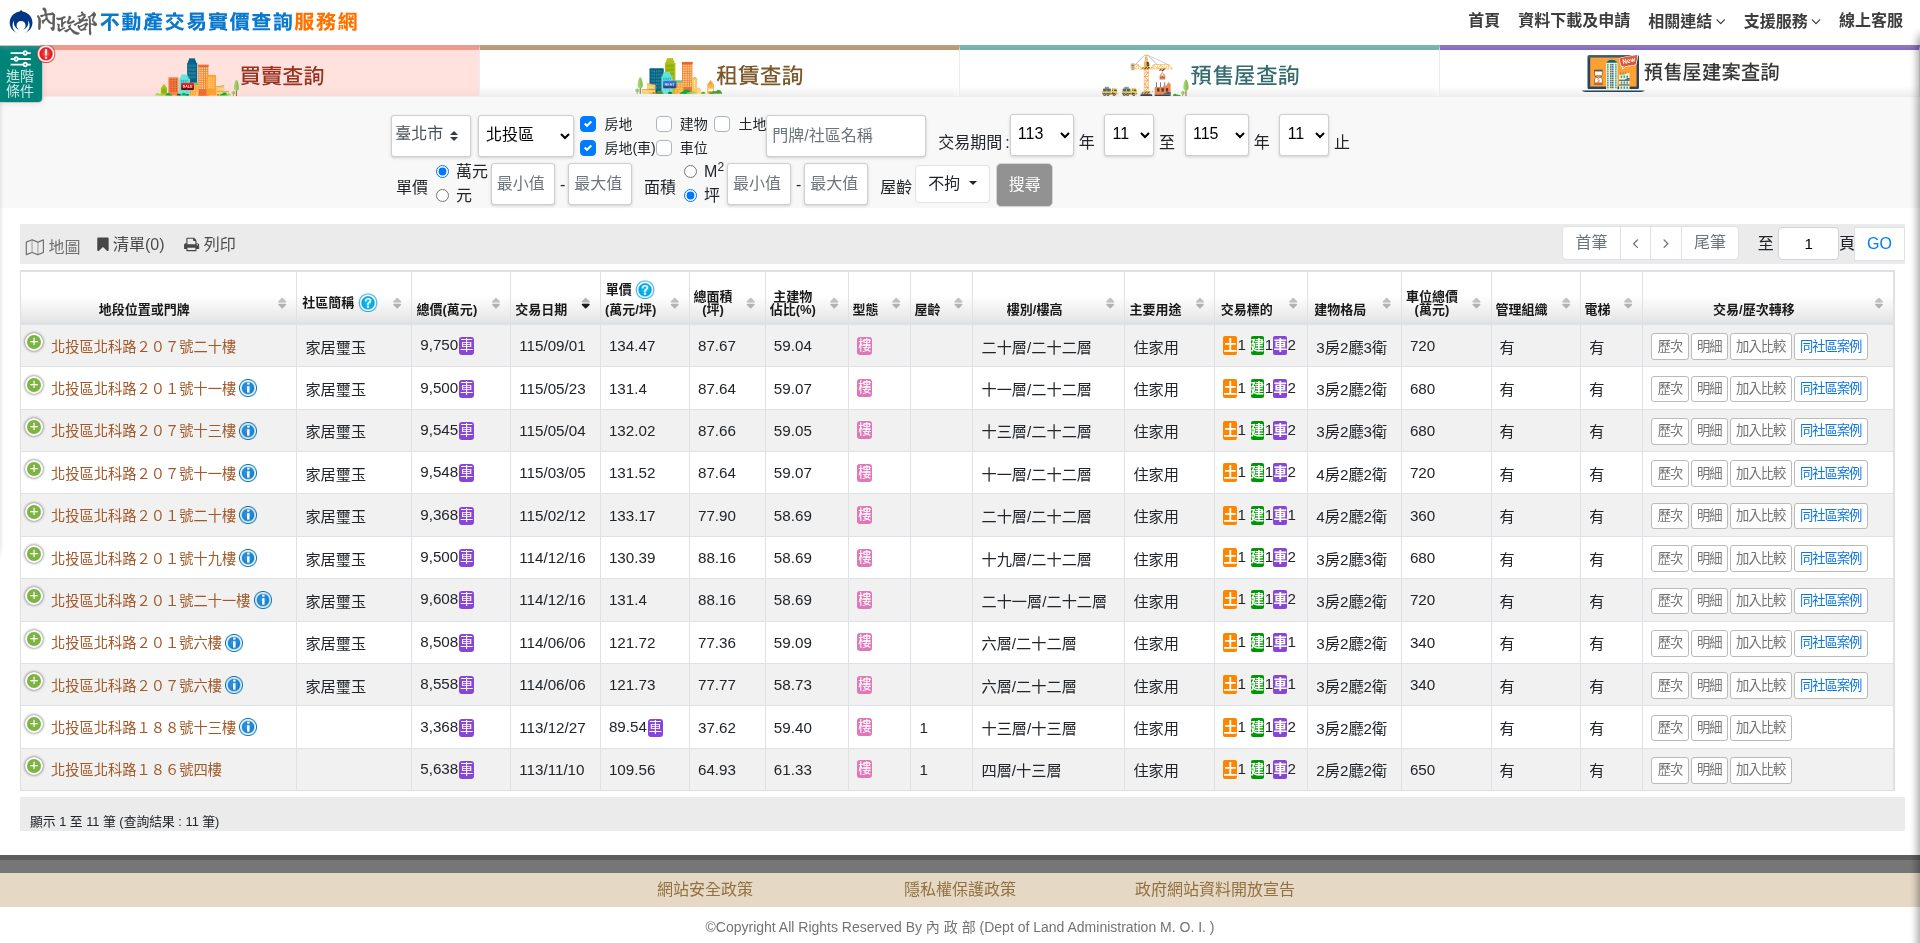
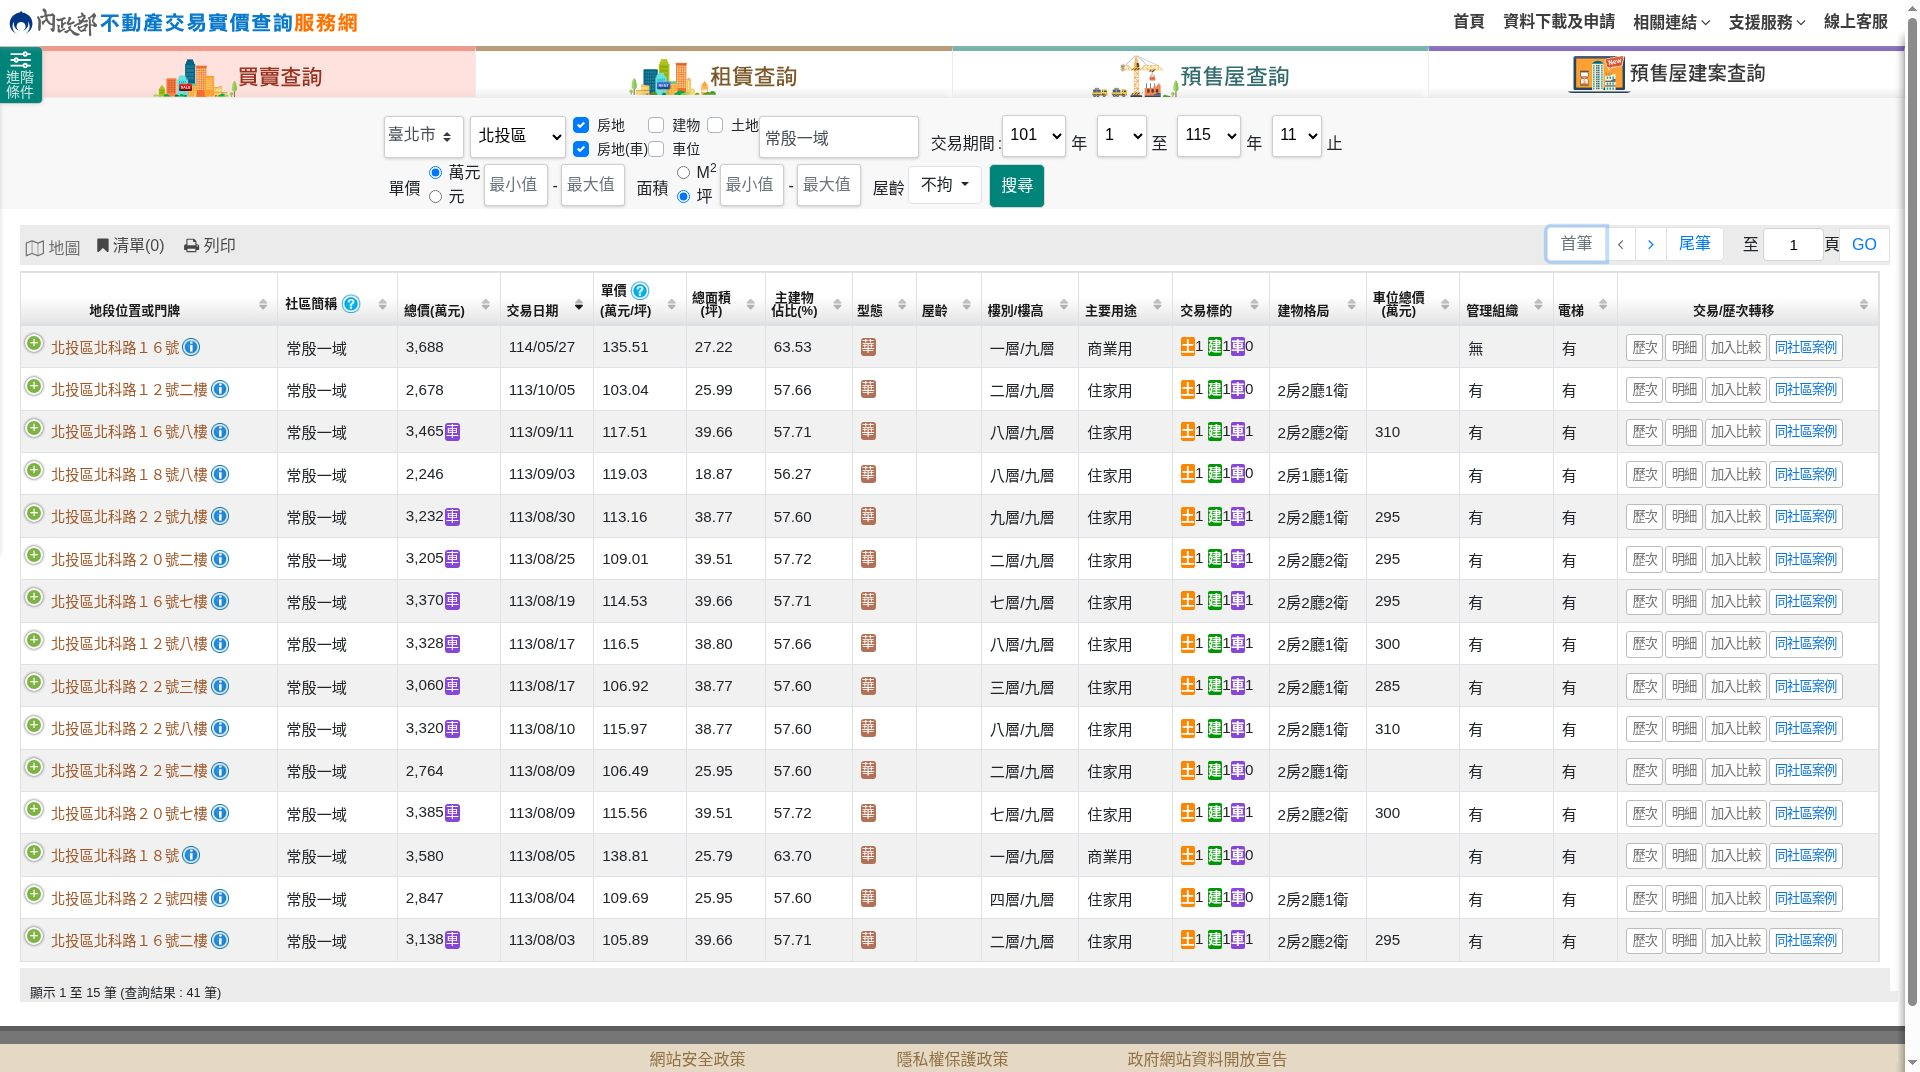
常殷一域實價改為同社區成交 41 筆

Changed region(s): [[0.0, 0.0, 1.0, 1.0]]

diff --git a/listings/changyin/index.html b/listings/changyin/index.html
@@ -63,10 +63,10 @@
     </section>
     <section class="section" id="registry">
       <h2 class="section-title">實價登錄</h2>
-      <div class="registry-grid"><a href="../../assets/images/listings/changyin/actual-price-01.jpg" data-gallery data-caption="北科路住宅大樓 實價登錄列表 11筆"><img src="../../assets/images/listings/changyin/actual-price-01.jpg" alt="北科路住宅大樓 實價登錄列表 11筆" loading="lazy"></a></div>
+      <div class="registry-grid"><a href="../../assets/images/listings/changyin/actual-price-01.jpg" data-gallery data-caption="同社區 常殷一域 實價登錄列表 第1頁"><img src="../../assets/images/listings/changyin/actual-price-01.jpg" alt="同社區 常殷一域 實價登錄列表 第1頁" loading="lazy"></a><a href="../../assets/images/listings/changyin/actual-price-02.jpg" data-gallery data-caption="同社區 常殷一域 實價登錄列表 第2頁"><img src="../../assets/images/listings/changyin/actual-price-02.jpg" alt="同社區 常殷一域 實價登錄列表 第2頁" loading="lazy"></a><a href="../../assets/images/listings/changyin/actual-price-03.jpg" data-gallery data-caption="同社區 常殷一域 實價登錄列表 第3頁"><img src="../../assets/images/listings/changyin/actual-price-03.jpg" alt="同社區 常殷一域 實價登錄列表 第3頁" loading="lazy"></a></div>
       <p class="registry-note">資料來源：內政部不動產交易實價查詢服務網</p>
       <p class="registry-note">查詢日期：2026-11-27</p>
-      <p class="registry-note">查詢範圍：北科路住宅大樓成交 11 筆</p>
+      <p class="registry-note">查詢範圍：同社區 常殷一域 41 筆</p>
     </section>
     <section class="section contact" id="contact">
       <h2 class="section-title">看屋</h2>
